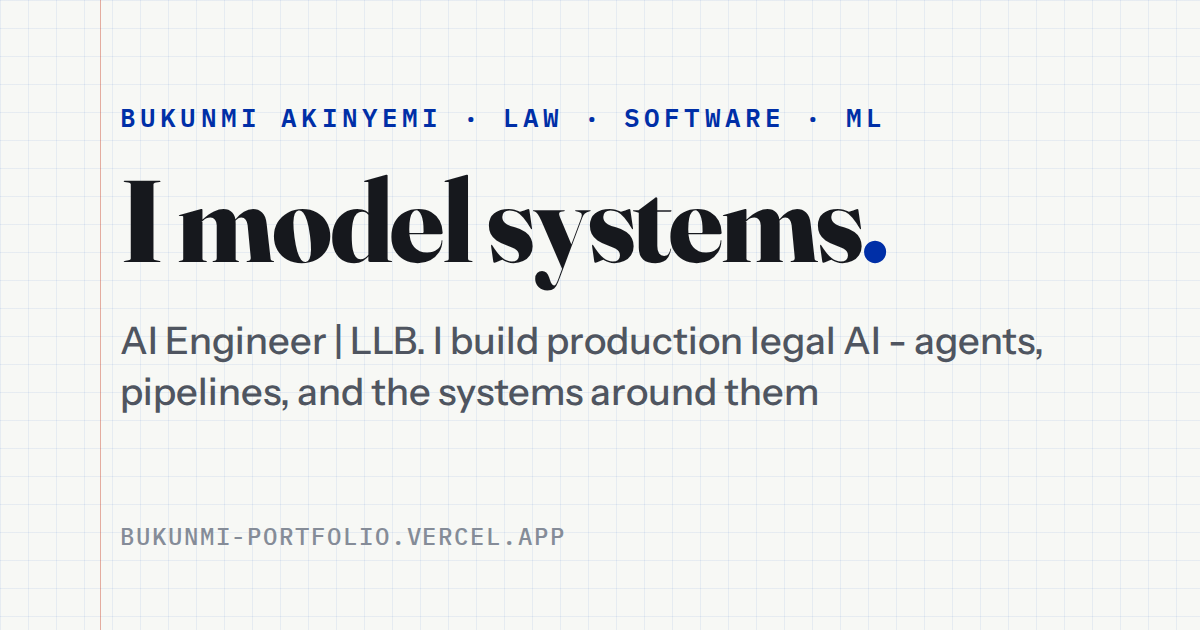
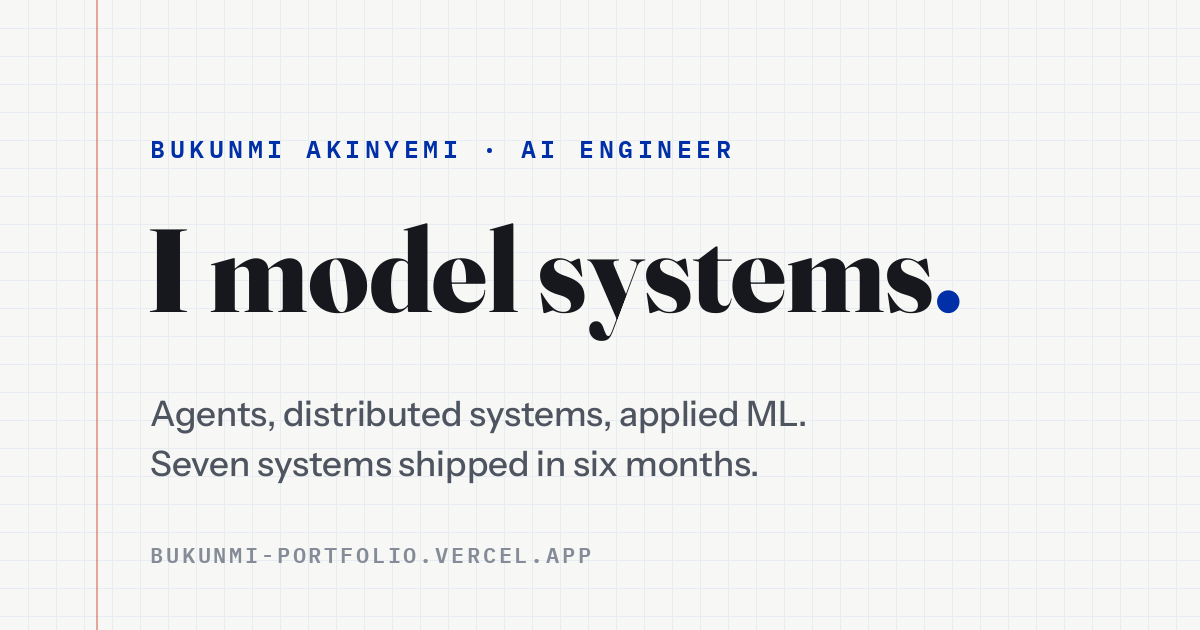
update og image text to reflect current role and projects

diff --git a/scripts/generate-brand-assets.py b/scripts/generate-brand-assets.py
@@ -70,8 +70,11 @@ def make_og() -> Image.Image:
     d = ImageDraw.Draw(img)
     x0 = 150
 
+    # The site kicker ("Agents · Distributed Systems · Applied ML") runs 1170px
+    # here, past the 1050px canvas limit, so identity stays in the kicker and the
+    # specifics move to the body lines below.
     kicker_font = ImageFont.truetype(PLEX, 25)
-    draw_tracked(d, (x0, 132), "BUKUNMI AKINYEMI · SOFTWARE", kicker_font, ACCENT, tracking=0.18)
+    draw_tracked(d, (x0, 132), "BUKUNMI AKINYEMI · AI ENGINEER", kicker_font, ACCENT, tracking=0.18)
 
     headline_font = ImageFont.truetype(FRAUNCES, 118)
     headline = "I model systems"
@@ -80,8 +83,8 @@ def make_og() -> Image.Image:
     d.text((x0 - 4 + w, 196), ".", font=headline_font, fill=ACCENT)
 
     body_font = ImageFont.truetype(INSTRUMENT, 35)
-    d.text((x0, 392), "I map patterns and deviations in complex systems", font=body_font, fill=INK_MUTED)
-    d.text((x0, 442), "and turn them into tools with measurable value.", font=body_font, fill=INK_MUTED)
+    d.text((x0, 392), "Agents, distributed systems, applied ML.", font=body_font, fill=INK_MUTED)
+    d.text((x0, 442), "Seven systems shipped in six months.", font=body_font, fill=INK_MUTED)
 
     foot_font = ImageFont.truetype(PLEX, 22)
     draw_tracked(d, (x0, 540), "BUKUNMI-PORTFOLIO.VERCEL.APP", foot_font, INK_FAINT, tracking=0.12)
